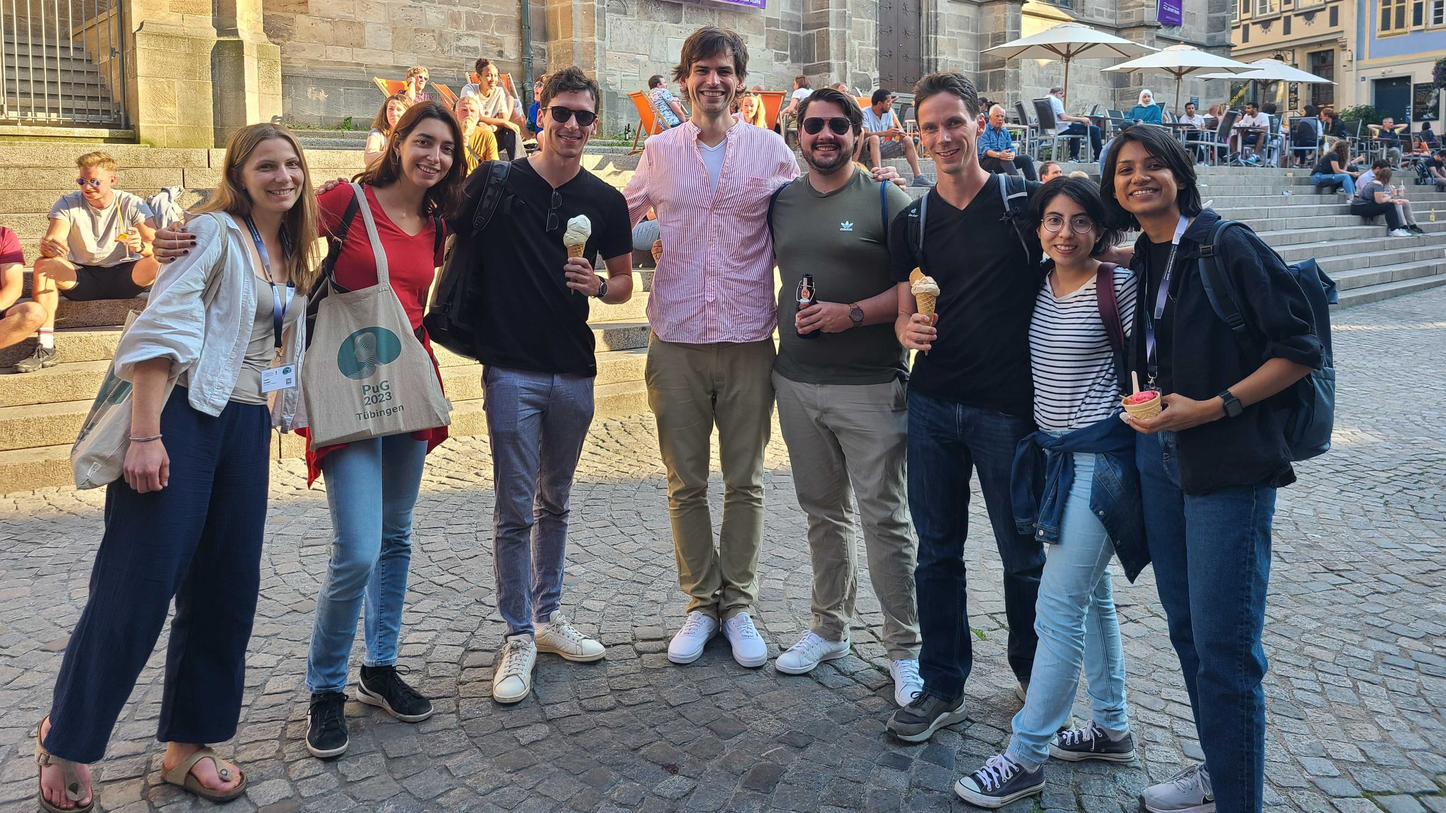
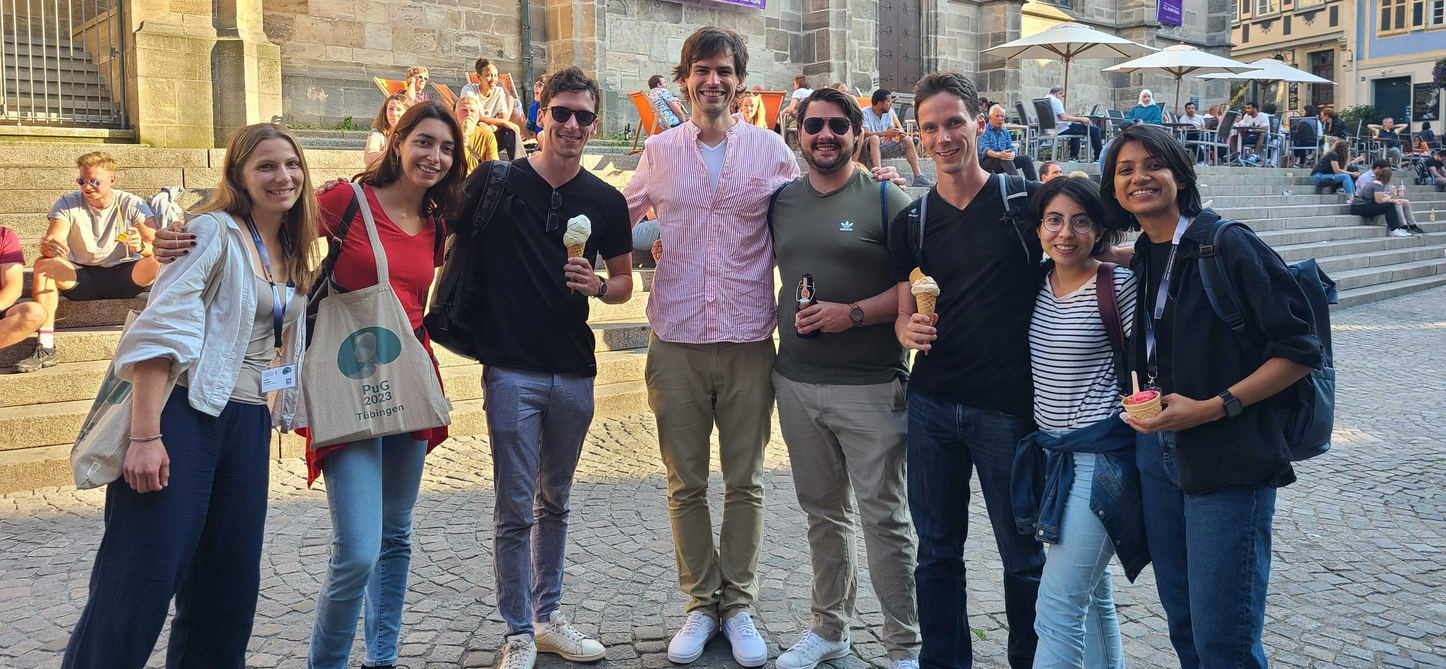
Update pictures

diff --git a/content/post/_index.md b/content/post/_index.md
@@ -19,7 +19,9 @@ reading_time: false
 #### 06/2023 </div>
 - Paper accepted by PNAS: [Subspace partitioning in human prefrontal cortex resolves cognitive interference.](https://www.pnas.org/doi/10.1073/pnas.2220523120)
 - Paper accepted by Progress in Neurobiology: [An evolutionary conserved division-of-labor between archicortical and neocortical ripples organizes information transfer during sleep.](https://authors.elsevier.com/a/1hL5b14SFmDDaU)
-- Our lab presented our research in the 48th edition of "Psychologie und Gehirn" ([PuG2023](https://pug2023.de/home/)) conference in Tübingen, Germany.
+- Our lab presented our research in the 48th edition of "Psychologie und Gehirn" ([PuG2023](https://pug2023.de/home/)) conference in Tübingen, Germany. **Jan Weber** and **Marit Petzka** organized a symposium about alpha oscillations and sleep spindles!
+<center>{{< figure src="spindles_symposium.jpg" class="center" >}}</center>
+
 
 
 ***
